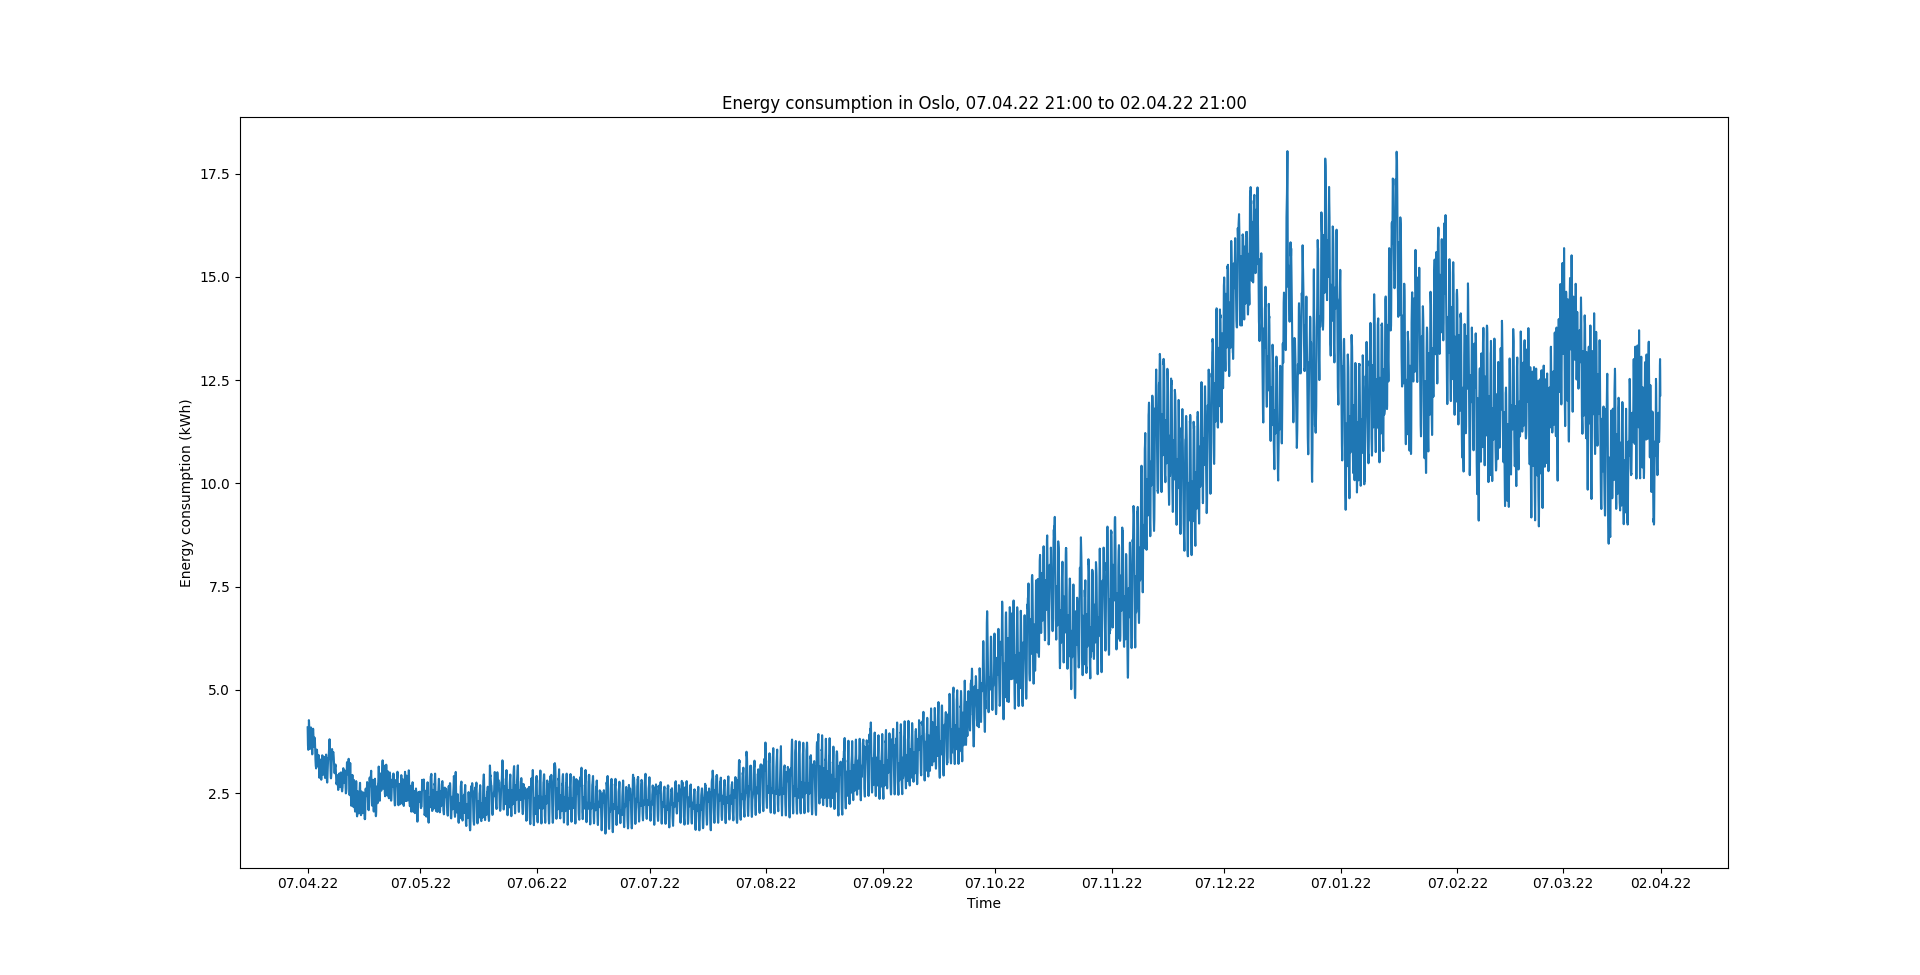
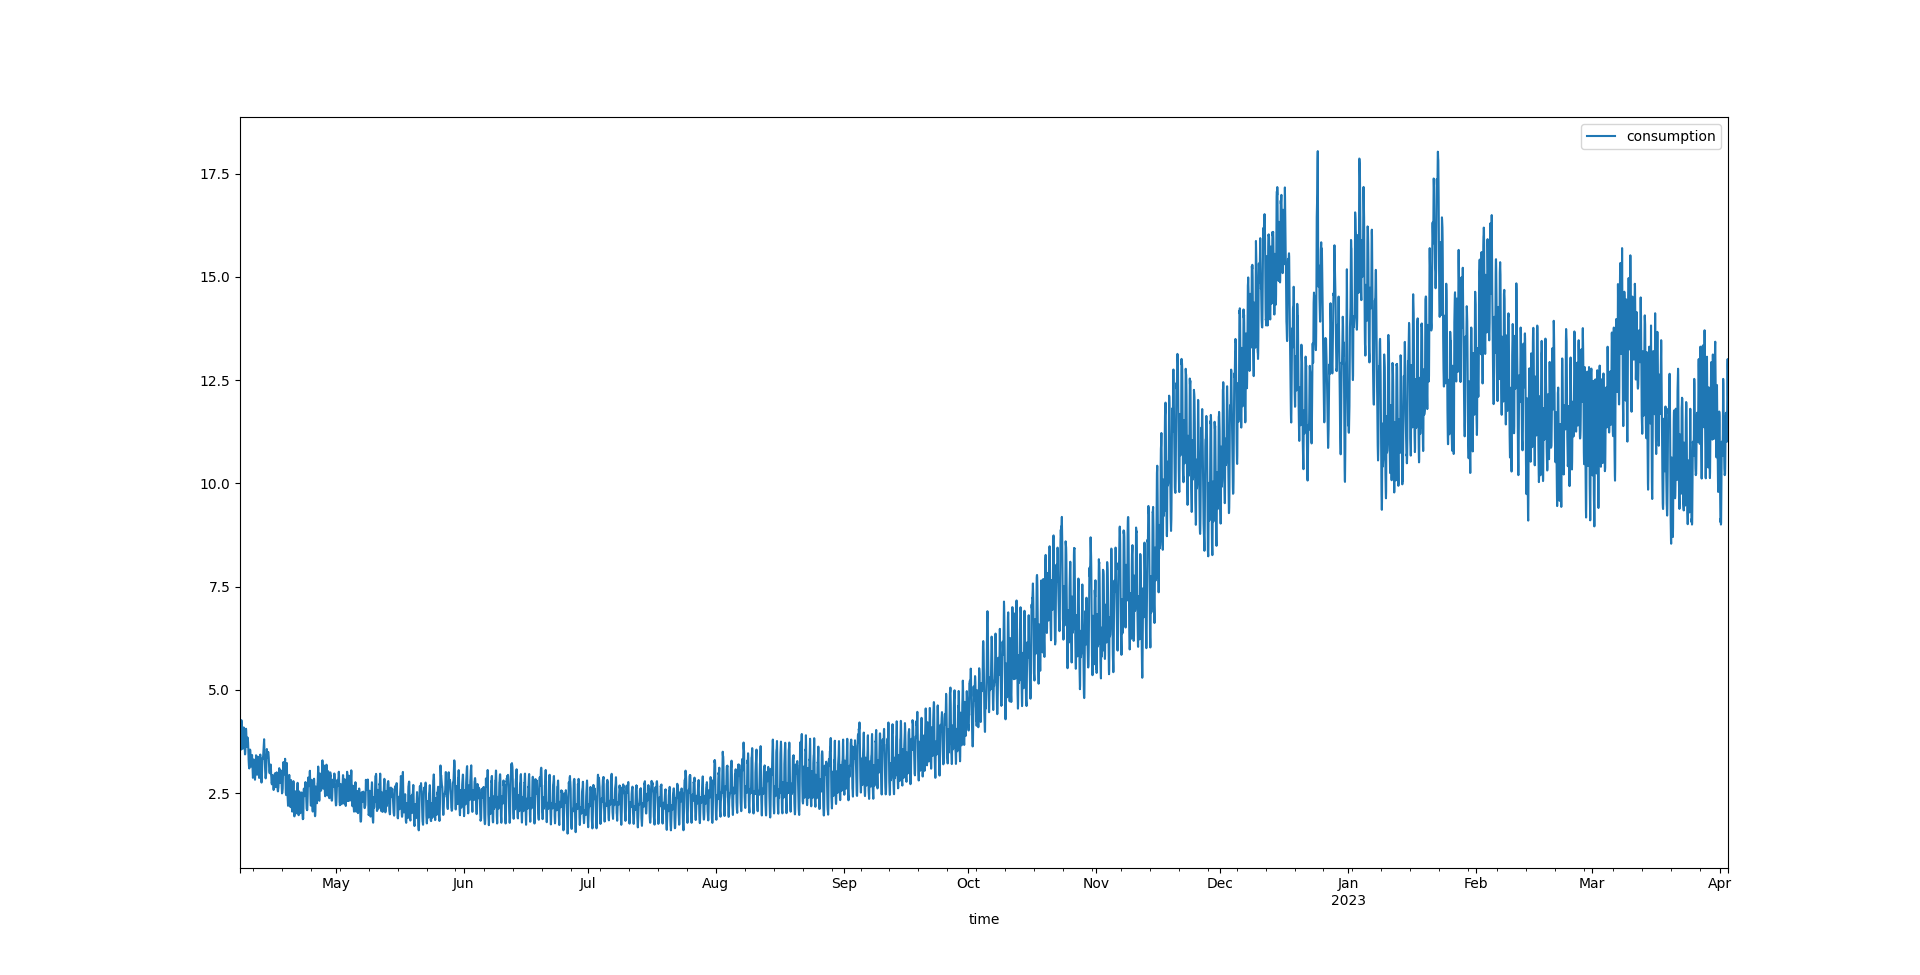
refac oslo_plotting

diff --git a/oslo_plotting.py b/oslo_plotting.py
@@ -1,111 +1,44 @@
 import pandas as pd
+import numpy as np
 from matplotlib import pyplot as plt
 
 data = pd.read_csv("consumption_temp.csv")
 
-# Dicts used for plotting
-oslo_time_consumption = dict()
-oslo_time_temp = dict()
-oslo_temp_consumption = dict()
+# Focus on data from Oslo
+data = data[data["location"] == "oslo"]
 
-# Not used, as I focus on Oslo
-bergen_consumption = dict()
-bergen_temp = dict()
-trondheim_consumption = dict()
-trondheim_temp = dict()
-stavanger_consumption = dict()
-stavanger_temp = dict()
-tromso_consumption = dict()
-tromso_temp = dict()
-helsingfors_consumption = dict()
-helsingfors_temp = dict()
+dateTime = data["time"]
+temp = data["temperature"]
+consumption = data["consumption"]
 
-# Setup dicts
-for i in range(len(data["time"])):
-    if (data["location"][i] == "oslo"):
-        oslo_time_temp[data["time"][i]] = data["temperature"][i]
-        oslo_temp_consumption[data["temperature"][i]] = data["consumption"][i]
-        oslo_time_consumption[data["time"][i]] = data["consumption"][i]
-    elif (data["location"][i] == "bergen"):
-        bergen_temp[data["time"][i]] = data["temperature"][i]
-        bergen_consumption[data["time"][i]] = data["consumption"][i]
-    elif (data["location"][i] == "trondheim"):
-        trondheim_temp[data["time"][i]] = data["temperature"][i]
-        trondheim_consumption[data["time"][i]] = data["consumption"][i]
-    elif (data["location"][i] == "stavanger"):
-        stavanger_temp[data["time"][i]] = data["temperature"][i]
-        stavanger_consumption[data["time"][i]] = data["consumption"][i]
-    elif (data["location"][i] == "tromsø"):
-        tromso_temp[data["time"][i]] = data["temperature"][i]
-        tromso_consumption[data["time"][i]] = data["consumption"][i]
-    elif (data["location"][i] == "helsingfors"):
-        helsingfors_temp[data["time"][i]] = data["temperature"][i]
-        helsingfors_consumption[data["time"][i]] = data["consumption"][i]
+data.set_index("time", inplace=True)
+data.index = pd.to_datetime(data.index)
 
 
-def plot_temperature_per_city():
-    time = oslo_time_temp.keys()
-    temp = oslo_time_temp.values()
-
-    plt.title("Temperature in Oslo, 07.04.22 21:00 to 02.04.22 21:00")
-    plt.xlabel("Time")
-    plt.ylabel("Temperature (°C)")
-
-    ticks = ["07.04.22", "07.05.22", "07.06.22", "07.07.22", "07.08.22",
-             "07.09.22", "07.10.22", "07.11.22", "07.12.22", "07.01.23",
-             "07.02.23", "07.03.23", "02.04.23"]
-    # magic numbers here are the indices of the seventh day of each month
-    plt.xticks(
-        labels=ticks,
-        ticks=[0, 720, 1464, 2184,
-               2928, 3672, 4392,
-               5136, 5856, 6600,
-               7344, 8016, 8641],
-    )
-
-    plt.plot(time, temp)
-    plt.show()
+def plot_temp():
+    temp_data = data.copy()
+    temp_data = temp_data.drop(["consumption"], axis=1)
+    temp_data.plot()
 
 
-def plot_consumption_per_city():
-    time = oslo_time_consumption.keys()
-    consumption = oslo_time_consumption.values()
-
-    plt.title("Energy consumption in Oslo, 07.04.22 21:00 to 02.04.22 21:00")
-    plt.xlabel("Time")
-    plt.ylabel("Energy consumption (kWh)")
-
-    ticks = ["07.04.22", "07.05.22", "07.06.22", "07.07.22", "07.08.22",
-             "07.09.22", "07.10.22", "07.11.22", "07.12.22", "07.01.22",
-             "07.02.22", "07.03.22", "02.04.22"]
-
-    plt.xticks(
-        labels=ticks,
-        ticks=[0, 720, 1464, 2184,
-               2928, 3672, 4392,
-               5136, 5856, 6600,
-               7344, 8016, 8641]
-    )
-
-    plt.plot(time, consumption)
-    plt.show()
+def plot_consumption():
+    consumption_data = data.copy()
+    consumption_data = consumption_data.drop(["temperature"], axis=1)
+    consumption_data.plot()
 
 
-def plot_temperature_consumption():
-    temp = oslo_temp_consumption.keys()
-    consumption = oslo_temp_consumption.values()
-
-    plt.title("Temperature-consumption graph")
+def plot_temp_consumption():
     plt.xlabel("Temperature (°C)")
-    plt.ylabel("Consumption (kWh)")
+    plt.ylabel("Consumption (kWh1)")
     plt.scatter(x=temp, y=consumption, alpha=0.8, linewidths=0.2)
     plt.show()
 
 
 def main():
-    # plot_temperature_per_city()
-    # plot_consumption_per_city()
-    plot_temperature_consumption()
+    plot_temp()
+    plot_consumption()
+    plot_temp_consumption()
+    plt.show()
 
 
 if __name__ == "__main__":
